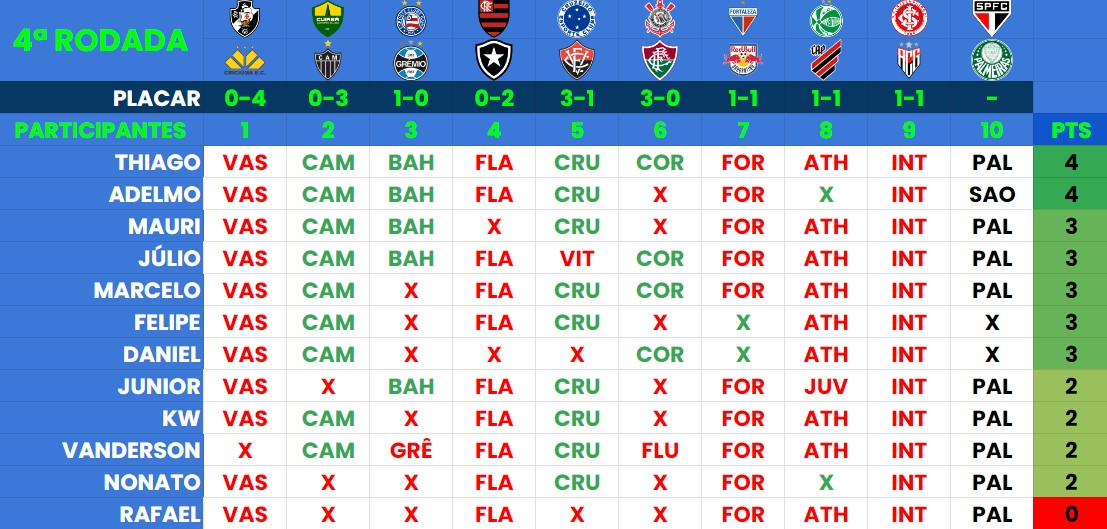
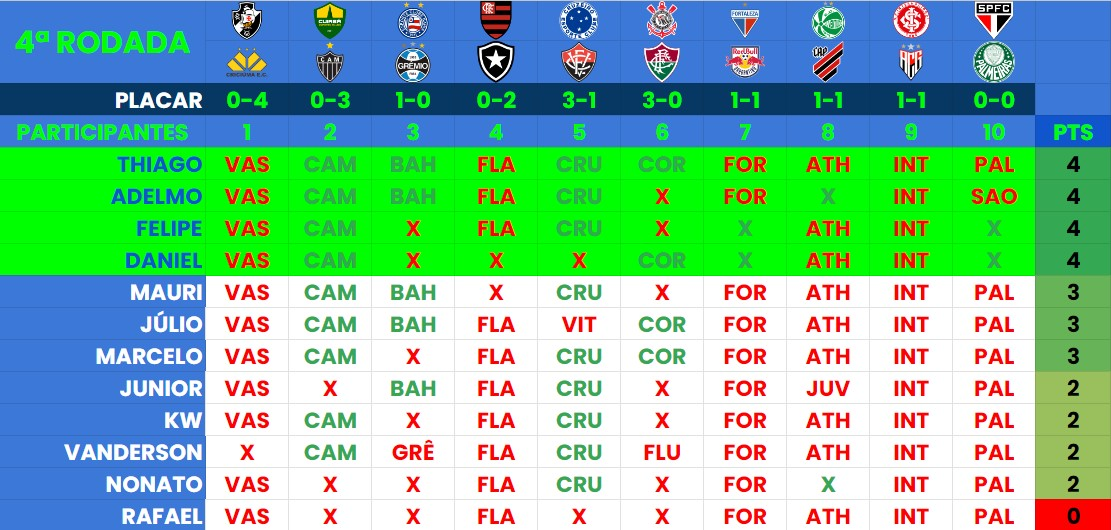
U

diff --git a/index.html b/index.html
@@ -51,10 +51,10 @@
           <img src="./assets/Round4.jpg" alt="Logo do Campeonato Brasileiro 2022" />
         </div>
         <div class="text">
-          <h2 class="title"><a href="./predictor.html">MERCADO FECHADO!</a>
+          <h2 class="title"><a href="./predictor.html">Thiago, Adelmo, Felipe e Daniel são os melhores da Rodada 4</a>
           </h2>
           <p>
-            Rodada é marcado por clássicos no RJ e SP
+            Rodada teve a menor média de pontos com 4 para cada
           </p>
           <a class="button" href="./predictor.html">Resumão da 4ª Rodada</a>
         </div>
@@ -177,7 +177,7 @@
           <div class="content">
             <h2 class="rank"><small>#</small>1</h2>
             <h4>Adelmo</h4>
-            <p>18 Pontos</p>
+            <p>22 Pontos</p>
           </div>
         </div>
         <div class="list">
@@ -187,7 +187,7 @@
           <div class="content">
             <h2 class="rank"><small>#</small>2</h2>
             <h4>Júnior</h4>
-            <p>18 Pontos</p>
+            <p>20 Pontos</p>
           </div>
         </div>
         <div class="list">
@@ -197,17 +197,7 @@
           <div class="content">
             <h2 class="rank"><small>#</small>3</h2>
             <h4>KW</h4>
-            <p>17 Pontos</p>
-          </div>
-        </div>
-        <div class="list">
-          <div class="imgBx">
-            <img src="./assets/fotos/palmeiras.png">
-          </div>
-          <div class="content">
-            <h2 class="rank"><small>#</small>4</h2>
-            <h4>Rafael</h4>
-            <p>17 Pontos</p>
+            <p>19 Pontos</p>
           </div>
         </div>
         <div class="list">
@@ -215,9 +205,9 @@
             <img src="./assets/fotos/fortaleza.png">
           </div>
           <div class="content">
-            <h2 class="rank"><small>#</small>5</h2>
+            <h2 class="rank"><small>#</small>4</h2>
             <h4>Júlio</h4>
-            <p>16 Pontos</p>
+            <p>19 Pontos</p>
           </div>
         </div>
         <div class="list">
@@ -225,19 +215,29 @@
             <img src="./assets/fotos/corinthians.png">
           </div>
           <div class="content">
-            <h2 class="rank"><small>#</small>6</h2>
+            <h2 class="rank"><small>#</small>5</h2>
             <h4>Daniel</h4>
-            <p>15 Pontos</p>
+            <p>19 Pontos</p>
           </div>
         </div>
         <div class="list">
           <div class="imgBx">
-            <img src="./assets/fotos/ceará.png">
+            <img src="./assets/fotos/palmeiras.png">
+          </div>
+          <div class="content">
+            <h2 class="rank"><small>#</small>6</h2>
+            <h4>Marcelo</h4>
+            <p>18 Pontos</p>
+          </div>
+        </div>
+        <div class="list">
+          <div class="imgBx">
+            <img src="./assets/fotos/santos.png">
           </div>
           <div class="content">
             <h2 class="rank"><small>#</small>7</h2>
-            <h4>Nonato</h4>
-            <p>15 Pontos</p>
+            <h4>Felipe</h4>
+            <p>18 Pontos</p>
           </div>
         </div>
         <div class="list">
@@ -246,28 +246,8 @@
           </div>
           <div class="content">
             <h2 class="rank"><small>#</small>8</h2>
-            <h4>Marcelo</h4>
-            <p>15 Pontos</p>
-          </div>
-        </div>
-        <div class="list">
-          <div class="imgBx">
-            <img src="./assets/fotos/santos.png">
-          </div>
-          <div class="content">
-            <h2 class="rank"><small>#</small>9</h2>
-            <h4>Felipe</h4>
-            <p>14 Pontos</p>
-          </div>
-        </div>
-        <div class="list">
-          <div class="imgBx">
-            <img src="./assets/fotos/fortaleza.png">
-          </div>
-          <div class="content">
-            <h2 class="rank"><small>#</small>10</h2>
-            <h4>Mauri</h4>
-            <p>13 Pontos</p>
+            <h4>Rafael</h4>
+            <p>17 Pontos</p>
           </div>
         </div>
         <div class="list">
@@ -275,9 +255,29 @@
             <img src="./assets/fotos/ceará.png">
           </div>
           <div class="content">
-            <h2 class="rank"><small>#</small>11</h2>
+            <h2 class="rank"><small>#</small>9</h2>
+            <h4>Nonato</h4>
+            <p>17 Pontos</p>
+          </div>
+        </div>
+        <div class="list">
+          <div class="imgBx">
+            <img src="./assets/fotos/ceará.png">
+          </div>
+          <div class="content">
+            <h2 class="rank"><small>#</small>10</h2>
             <h4>Thiago</h4>
-            <p>13 Pontos</p>
+            <p>17 Pontos</p>
+          </div>
+        </div>
+        <div class="list">
+          <div class="imgBx">
+            <img src="./assets/fotos/fortaleza.png">
+          </div>
+          <div class="content">
+            <h2 class="rank"><small>#</small>11</h2>
+            <h4>Mauri</h4>
+            <p>16 Pontos</p>
           </div>
         </div>
         <div class="list">
@@ -287,7 +287,7 @@
           <div class="content">
             <h2 class="rank"><small>#</small>12</h2>
             <h4>Vanderson</h4>
-            <p>9 Pontos</p>
+            <p>11 Pontos</p>
           </div>
         </div>
       </div>
